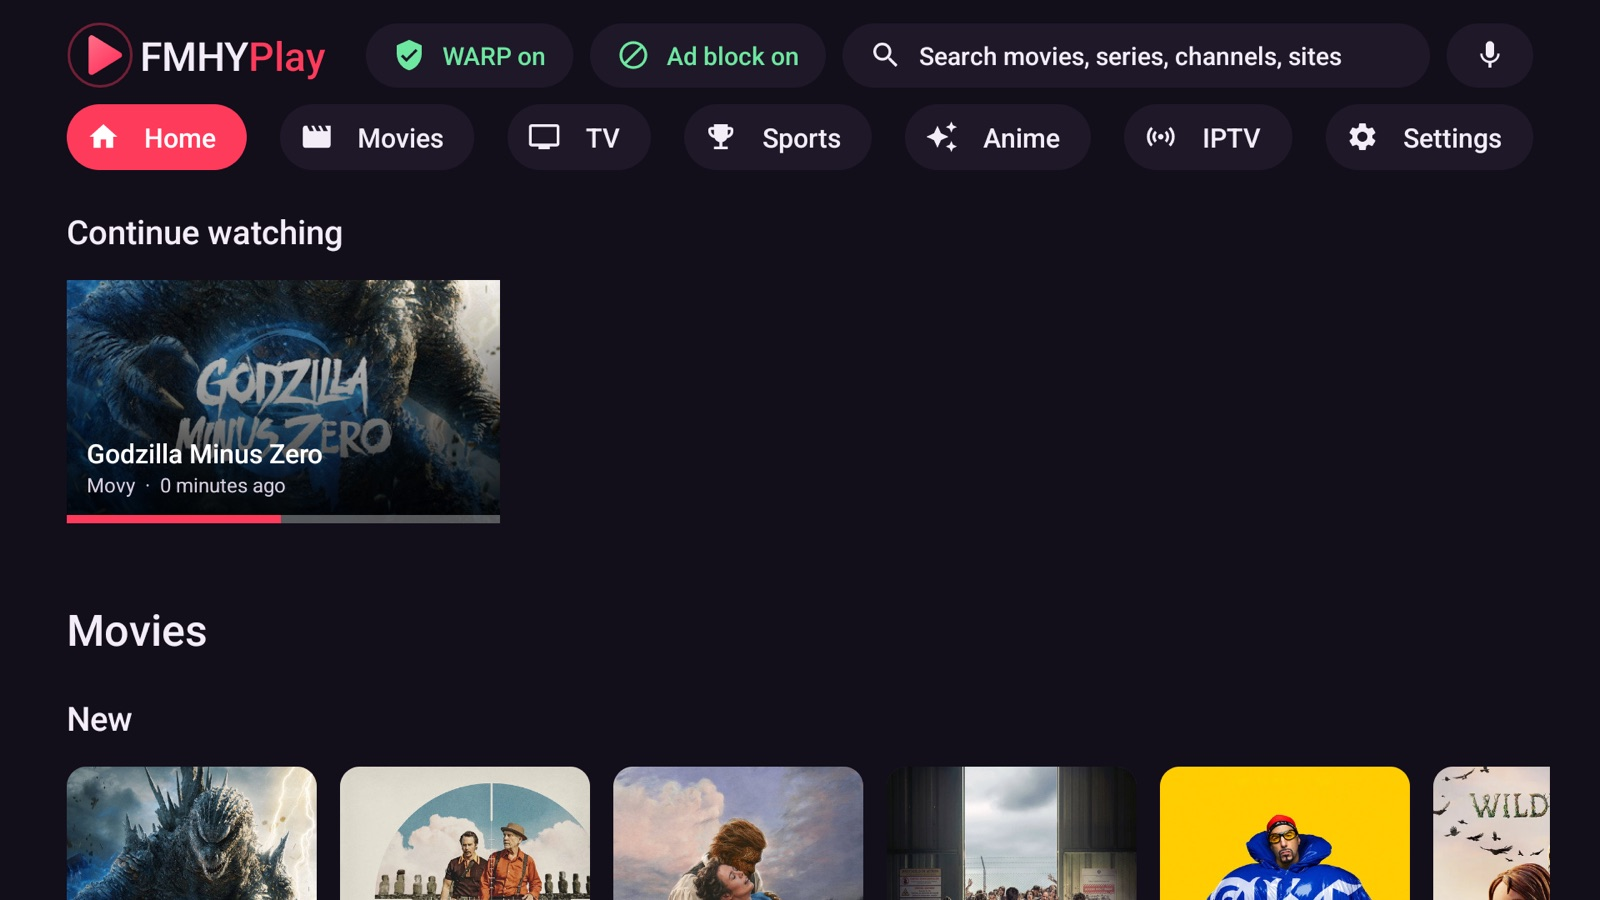
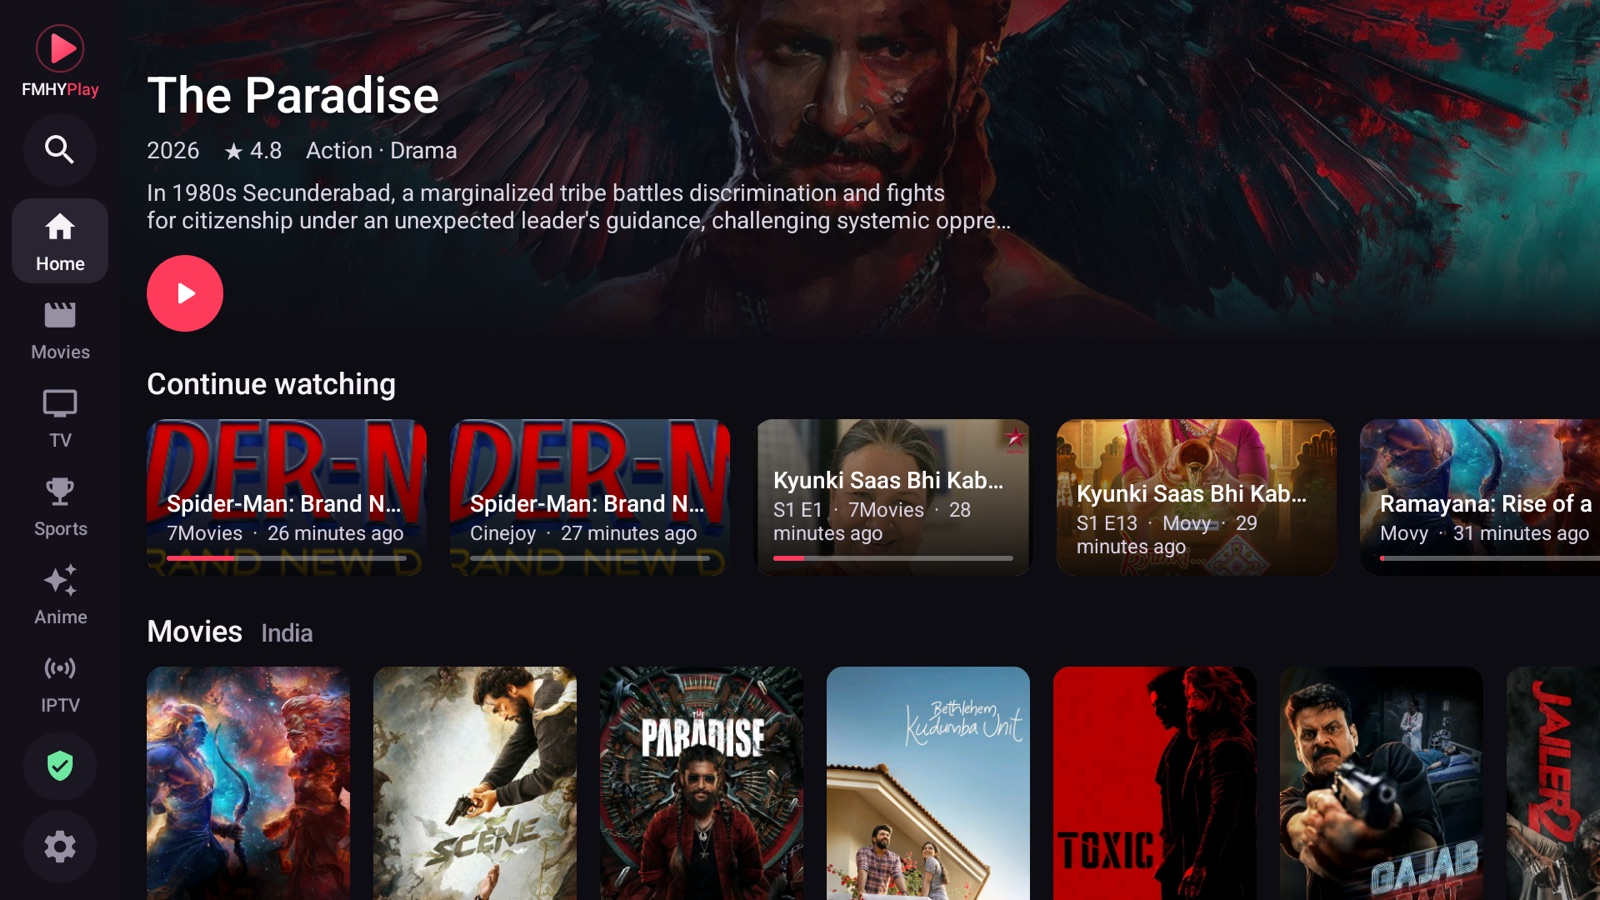
Version 2.19.0
New look, your country's titles first, player strips and side panel, IPTV tab, settings sections, memory and focus fixes. Docs and screenshots updated.

diff --git a/docs/guide.html b/docs/guide.html
@@ -39,10 +39,11 @@ adb install -r FMHYPlay-TV-vX.Y.Z.apk</code></pre>
 <p><b>Updates from inside the app</b> (2.14.0 and later): when a newer release is out, Home shows one line with an <i>Install</i> button. FMHYPlay downloads it from GitHub and Android asks you to confirm; the first time, allow FMHYPlay to install unknown apps. <i>Settings, Check for updates</i> looks right away, and <i>Check automatically</i> turns the automatic check off; it looks every hour and at every boot, even with the app closed.</p>
 
 <h2 id="browse">Browse and play</h2>
-<p>The tabs along the top (bottom on a phone) are <b>Home</b>, <b>Movies</b>, <b>TV</b>, <b>Sports</b>, <b>Anime</b>, <b>IPTV</b> and <b>Settings</b>.</p>
+<p>The tabs are <b>Home</b>, <b>Movies</b>, <b>TV</b>, <b>Sports</b>, <b>Anime</b> and <b>IPTV</b>: on a rail down the left side on a TV (with Search on top, and WARP and Settings at the foot), along the bottom on a phone (Search, WARP and Settings are in the bar on top). They stay on every screen; pressing one from a title page or a list goes Home on that tab. On a phone, pull down at the top of a tab to load it again.</p>
+<p><b>Your country first:</b> Home opens with Movies and TV rows from your country, and the Movies and TV tabs open on your first language with a chip for each (India: Hindi, Tamil, Telugu...). The country comes from the mobile network or the time zone; <i>Settings, Your country</i> changes it or turns it off.</p>
 <ul>
 <li><b>Sites</b> are the streaming sites from the FMHY lists, grouped by what they carry. Pick one to open it.</li>
-<li><b>Catalog rows</b> show what is popular. Pick a title, then <i>Watch on</i> a site: on about 70 sites it opens the title's own page (or the episode you picked), on the others it searches for the name and opens the match. Anime titles list anime sites only, and the sites that open episodes directly come first.</li>
+<li><b>Catalog rows</b> show what is new and popular. Pick a title (its page has a <i>Trailer</i> button), then <i>Watch on</i> a site; a series starts at its first episode unless you pick another from the list (50 at a time, <i>Load more</i> for the rest): on about 70 sites it opens the title's own page (or the episode you picked), on the others it searches for the name and opens the match. Anime titles list anime sites only, and the sites that open episodes directly come first.</li>
 <li><b>Continue watching</b> on Home brings back the last titles you opened.</li>
 <li>Hold <kbd>OK</kbd> (long-press on a phone) on a site for favorites and mirrors.</li>
 </ul>
@@ -67,7 +68,7 @@ adb install -r FMHYPlay-TV-vX.Y.Z.apk</code></pre>
 
 <h2 id="remote">TV remote</h2>
 <table><tr><th>Where</th><th>Key</th><th>What it does</th></tr>
-<tr><td rowspan="2">Menus</td><td>Arrows, <kbd>OK</kbd></td><td>Move and select; the tab row is above the first row</td></tr>
+<tr><td rowspan="2">Menus</td><td>Arrows, <kbd>OK</kbd></td><td>Move and select. <kbd>Left</kbd> from a page reaches the rail; <kbd>OK</kbd> on a tab opens it with the focus on its first card. <kbd>Up</kbd> and <kbd>Down</kbd> stay inside the page, and coming back from a video returns to the card you left</td></tr>
 <tr><td><kbd>Menu</kbd></td><td>Same as holding <kbd>OK</kbd>: favorites, mirrors, remove</td></tr>
 <tr><td rowspan="2">Sites</td><td>Arrows</td><td>Move a round cursor over the page (or the focus, in focus mode)</td></tr>
 <tr><td>Hold <kbd>OK</kbd> 5 s</td><td>Switch between cursor and focus mode for that site</td></tr>
@@ -99,7 +100,7 @@ adb install -r FMHYPlay-TV-vX.Y.Z.apk</code></pre>
 <tr><td>Quality</td><td>The qualities the stream offers (with frame rate, for example <code>1080p60</code>), or the site's own quality list for sites that serve one playlist per quality.</td></tr>
 <tr><td>Audio</td><td>The stream's audio tracks by language. The language you pick is remembered: the next videos start in it when they have it, otherwise in your device's language.</td></tr>
 <tr><td>SUB / DUB</td><td>Anime: switches between subtitled and dubbed in one press. The badge says which is playing, and each site remembers your pick.</td></tr>
-<tr><td>Episodes</td><td>The list of episodes: seasons across the top, each episode with its picture and name. The one playing is marked; pick another and it opens.</td></tr>
+<tr><td>Episodes</td><td>A strip of episodes along the bottom, each with its picture and name, while the video keeps playing. The one playing is marked; pick another and it opens. For a live channel the same button is <i>Channels</i> (the channel's category in its country), for a movie <i>More to watch</i>. <kbd>Down</kbd> from the buttons opens it too; the button again, <kbd>Back</kbd> or a tap outside closes it.</td></tr>
 <tr><td>Servers</td><td>The site's own servers (see below).</td></tr>
 <tr><td>Subtitles</td><td>The stream's subtitles, <i>Search subtitles</i>, and <i>Settings</i> (size, position, color, background, timing).</td></tr>
 <tr><td>More</td><td>Speed (0.5x to 2x), Volume boost (up to +12 dB), Dialog boost (clearer voices, off until you turn it on), Zoom (Fit, Fill, Stretch, 16:9, 4:3), Debug overlay and From the start. <i>Debug overlay</i> shows live numbers over the picture: size and frame rate, codec and whether the decoder is hardware or software, video and audio bitrate, network speed (last download, estimate, 30-second average, total), buffer, dropped frames, stream type and host, how long the video took to open, and memory. It stays on or off as you leave it.</td></tr>
@@ -151,9 +152,9 @@ adb install -r FMHYPlay-TV-vX.Y.Z.apk</code></pre>
 <p>PunchPlay sees when you start, pause and stop a movie or episode opened from Movies, TV or Anime, and marks it watched past 80%. Press <i>Settings, PunchPlay</i> again to disconnect. What is sent is listed on the <a href="privacy.html">privacy page</a>.</p>
 
 <h2 id="iptv">IPTV</h2>
-<p>The <b>IPTV</b> tab lists public channels by category and country.</p>
+<p>The <b>IPTV</b> tab starts with what you watched and your favorites, then your own playlists and pins, then your country's channels with its categories (News, Movies, Kids...), then every country and every category. In the player, <i>Previous</i> / <i>Next</i> and the remote's <kbd>Channel +</kbd> / <kbd>Channel −</kbd> move through the channel's category.</p>
 <ul>
-<li><b>Continue watching</b> and <b>Working</b> rows: the last channels you watched, and every channel that has played for you. Hold <kbd>OK</kbd> on a card to remove it or star it.</li>
+<li><b>Continue watching</b>: the last channels you watched. Hold <kbd>OK</kbd> on a card to remove it or star it. <b>Working channels</b> (every channel that has played or passed the check) is the first card under Categories.</li>
 <li><b>Offline channels are hidden.</b> A background check tests channels a few at a time and remembers the result (working for a week, not working for two days). A channel that fails when you press play is hidden at once. <i>Settings, Hide offline channels</i> turns this off and <i>Check channels now</i> tests everything again.</li>
 <li><b>Search</b> by typing or by voice, and filter inside any list by name.</li>
 <li><b>Category and Language chips</b> above every channel list: in <i>India</i>, for example, pick <i>News</i> and <i>Hindi</i>. Categories start with Movies, TV, Kids and News; languages with the one you use for audio, the country's main one and English.</li>

diff --git a/CHANGELOG.md b/CHANGELOG.md
@@ -2,18 +2,18 @@
 
 Only the current version is kept here: each `vX.Y.Z` tag publishes the TV and Android APKs, and this section becomes the release notes. Older notes are on the [Releases page](https://github.com/fmhyplay/android/releases).
 
-## Unreleased
+## 2.19.0
 
 ### ✨ New
-- **New look on every screen**: darker, calmer colours; on a TV a rail down the left side with Search, the tabs, WARP and Settings, one Left press from any row; on a phone a top bar with Search, voice, WARP and Settings, and six tabs at the bottom; posters with their name and year underneath instead of on the picture; a white focus ring with a slight grow on a TV; app-coloured pop-ups.
+- **New look on every screen**: darker, calmer colours; on a TV a rail down the left side with Search, the tabs, WARP and Settings, one Left press from any row (OK on a tab puts the focus on its first card); on a phone a top bar with Search, voice, WARP and Settings, and six tabs at the bottom; posters with their name and year underneath instead of on the picture; a white focus ring with a slight grow on a TV; app-coloured pop-ups.
 - **A big picture on top of Home**: one of the first row's titles, a different one each day. Press play to open it.
 - **Your country first**: Home starts with Movies and TV rows from your country (India: Hindi, Tamil, Telugu, Malayalam, Kannada taken in turns), and the Movies and TV tabs open on your first language, with a chip per language. The country is found from the mobile network or the time zone; change it or switch it off in Settings, Your country. Lists come from TMDB through the public Stremio TMDB addon.
 - **Title pages** have the title's wide picture behind the top.
 - **More on one screen**: smaller margins, a slim line of sites on the Movies, TV and Anime tabs, smaller Continue watching cards on a TV.
-- **Phone title page**: the sites to watch on are a two-across grid instead of a sideways row.
+- **Phone title page** for a movie: the sites to watch on are a two-across grid instead of a sideways row. Cast, director and country sit beside the poster.
 - **Trailer** button on title pages (YouTube).
-- **Settings in sections** that open and close (Home, Connection, Your data, IPTV, Player, Updates, Sites, Donate, About), so the tab starts as a short list.
-- **Donate and About**: ways to support the app, the website, source code and where to report a problem.
+- **Settings in sections** that open and close (Connection, Your data, IPTV, Player, Updates, Sites), each one card with an icon, so the tab starts as a short list.
+- **Donate and About** in Settings: ways to support the app, the website, source code and where to report a problem. Links open in the device's browser.
 - **Clear website data** (Settings, Your data): cookies, logins, cache and saved data of every site.
 - **Turning WARP off asks first**, so a stray press does not show sites your real address.
 - The app's name is on the TV rail and the phone's top bar.
@@ -30,8 +30,7 @@ Only the current version is kept here: each `vX.Y.Z` tag publishes the TV and An
 
 ### 🔧 Changed
 - **Search waits until you pause typing** (about half a second) before it searches and redraws. Pressing Search on the keyboard searches at once.
-- The ad block switch is in Settings only; the top bar shows WARP's state as one icon (words appear when it is connecting or failed).
-
+- The ad block switch is in Settings only; WARP's state is one icon (green on, amber connecting, red failed, grey off).
 - **Pictures load faster and stay loaded**: their own download threads, one download per picture however many cards show it, decoded at the card's size, and a memory cache sized to the device (it held about 17 posters before, so scrolling back loaded them again). A missing picture is not asked for again for ten minutes. The picture folder is capped at 200 MB.
 - **Tabs switch without the lag**: the pressed tab lights up at once, site lists and catalog pages are parsed once instead of on every switch, and the rows below the first screen are added a frame later.
 - **Less memory**: pictures are fetched and decoded only when their card comes near the screen, at the size they are shown, and photos take half the memory; the web engine loads when a site is opened instead of at app start; the player's strips size their pictures to the cards.
@@ -42,10 +41,3 @@ Only the current version is kept here: each `vX.Y.Z` tag publishes the TV and An
 - **A series with thousands of episodes in one season** (daily soaps) could close the app: every episode got a row and a picture at once. Episodes now come 50 at a time, with Load more.
 - Posters and pictures nobody opened for 60 days are removed from storage (they used to pile up forever).
 - A download that broke half way no longer leaves its connection open.
-
-## 2.18.6
-
-### 🐞 Fixed
-- **No loading screen after pressing OK on Next episode** (TV remote): the player acts on the key going down and closes, and the key coming back up reached the site, whose loading screen counts OK as "dismiss" and took itself down at once. Only an OK press that began on the loading screen dismisses it now.
-- **Next episode could get stuck on the old episode** for a resumed anime when the catalog had no address for it: the app now swaps the episode number in the page's own address (`…episode-3` becomes `…episode-4`) before trying to press the episode in the site's list.
-- **A page that fails to load** (no network, timed out) now ends the loading screen in a few seconds with the staring cat, instead of waiting 40 seconds.

diff --git a/README.md b/README.md
@@ -45,14 +45,14 @@ Streaming sites are built for a desktop browser with a mouse. On a TV remote the
 <p align="center"><img src="docs/cast.svg" alt="Cast from the phone to a TV on the same Wi-Fi" width="760"></p>
 
 **Series and anime**
-- **Episodes** list in the player (seasons, stills, names), **Previous** and **Next**, and the next episode starts by itself
+- **Episodes** strip in the player (stills and names along the bottom while the video plays), **Previous** and **Next**, and the next episode starts by itself
 - **Skip intro, recap and credits** (times from TheIntroDB and AniSkip), with a Next episode button at the credits; *Settings, Skip intros* skips them for you
 - **Sub / Dub** button for anime, remembered per site
 - Opens the exact episode directly on 34 TV sites and 22 anime sites; elsewhere it presses the episode in the site's own list or menus
 
 **FMHYPlayer**
 - Hands off automatically when a page starts an HLS, DASH or live FLV stream; falls back to the page if the stream cannot be played
-- One row of icon buttons: Previous, Next, Quality, Audio, Sub / Dub, Episodes, Servers, Subtitles, More, Cast, Full screen; what is picked shows under the title, and on a TV the button the remote is on shows its name
+- Icon buttons in two groups: Previous, Next, Episodes on the left; Quality, Audio, Sub / Dub, Servers, Subtitles, More, Cast, Full screen on the right; menus open as a side panel; what is picked shows under the title, and on a TV the button the remote is on shows its name
 - Replays the page's Referer, Origin and cookies, so streams that check them still play
 - **Resumes where you stopped on any site or server**, with a Restart button; the place is saved every 10 seconds while you watch, and the subtitles you had on come back
 - Quality list with frame rate (for example 1080p60), audio and subtitle tracks, speed and zoom modes
@@ -66,7 +66,8 @@ Streaming sites are built for a desktop browser with a mouse. On a TV remote the
 - A translucent **loading screen** (title, current step, a cat that spins while it works, jumps when the stream is found and stares when it gets stuck) while the app drives a site, until the player is up; tap it or press Back to see the page
 
 **Browsing**
-- Home with Continue watching, Favorites, and **New and Popular** for Movies, TV and Anime (from Cinemeta and Kitsu)
+- Home with Continue watching, Favorites, **your country's movies and series first** (by language, from TMDB), then **New and Popular** for Movies, TV and Anime (from Cinemeta and Kitsu)
+- A side rail on a TV, bottom tabs on a phone; pull down to refresh; trailers on title pages
 - **One search** for movies, series, IPTV channels and sites, by typing or by voice
 - A directory of streaming sites that tracks the [FMHY](https://github.com/fmhy/edit) lists; opens a title's own page on about 70 sites and searches the rest for you, then opens the match
 - Anime opens on anime sites only
@@ -83,7 +84,8 @@ Streaming sites are built for a desktop browser with a mouse. On a TV remote the
 
 **IPTV**
 - More than 11,000 public channels from [iptv-org](https://github.com/iptv-org/iptv), grouped by category and country, with logos
-- A background check hides channels that are offline, and a Working row shows the ones that played
+- A background check hides channels that are offline; your country's channels and its categories come first
+- In the player: **Channel + / −**, Previous / Next and a **Channels strip** move through the channel's category
 - **Add your own playlist, a single `.m3u8` stream link, an Xtream Codes login or a Stalker portal (MAC address)**; each playlist gets its own row
 - **Category and Language filters** in every channel list, and **pins**: keep a list with its filters (India · News · Hindi) as its own row
 - Favorite channels with a heart; channels also show up in the one search
